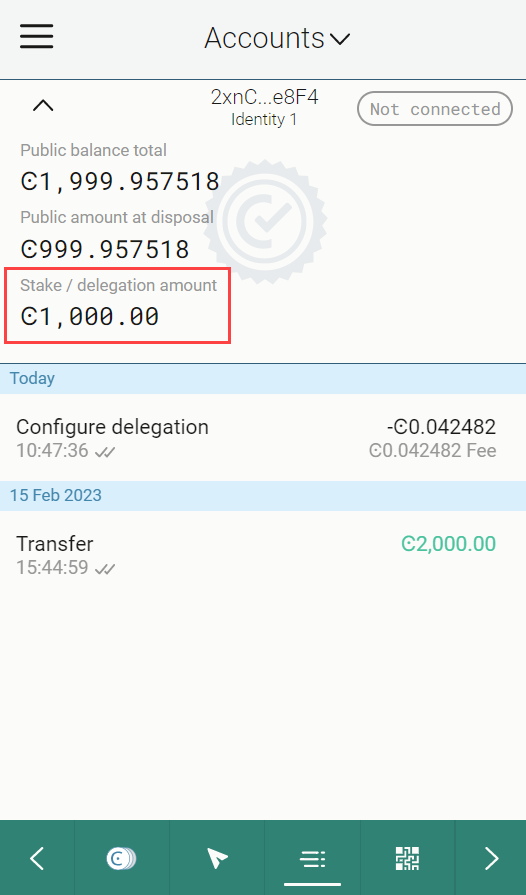
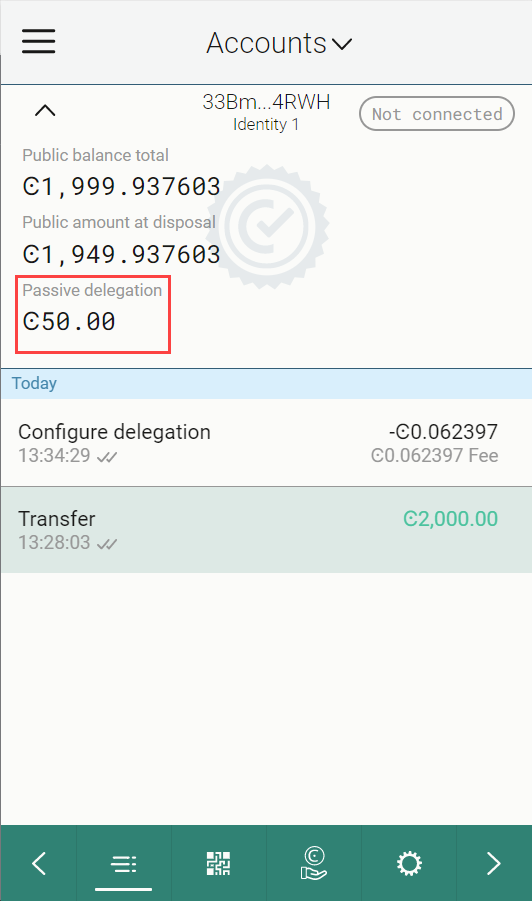
Address some review comments

diff --git a/source/mainnet/net/guides/add-delegation.rst b/source/mainnet/net/guides/add-delegation.rst
@@ -258,11 +258,16 @@ When you delegate some stake to a baker pool, it can influence the chances of th
             .. image:: ../images/browser-wallet/delegation-submit-xact.png
                 :width: 40%
 
-        Once the transaction is finalized, the delegation is effective from the next pay day. You can see the delegation on the account card.
+        Once the transaction is finalized, the delegation is effective from the next pay day. You can see the delegation type and amount on the account card.
 
             .. image:: ../images/browser-wallet/delegated-amount.png
                 :width: 40%
 
+        Accounts with delegation also have an icon in the account list.
+
+            .. image:: ../images/browser-wallet/delegation-acct-list.png
+                :width: 40%
+         
         .. |earn| image:: ../images/earn.png
              :alt: Hand receiving money
              :width: 50px

diff --git a/source/mainnet/net/mobile-wallet/add-baker-mw.rst b/source/mainnet/net/mobile-wallet/add-baker-mw.rst
@@ -397,10 +397,10 @@ Prior to becoming a baker, read :ref:`Baker management<baker-pool>` to learn abo
 
     Once the transaction is finalized after importing your baker keys to the node, you see the baking status reflected in the account list and on the account card.
 
-    .. image:: ../images/mobile-wallet/account-list-baking.png
+    .. image:: ../images/browser-wallet/add-baker-acct-list.png
         :width: 40%
 
-    .. image:: ../images/mobile-wallet/account-details-baking.png
+    .. image:: ../images/browser-wallet/add-baker-acct-details.png
         :width: 40%
 
 .. Warning::
